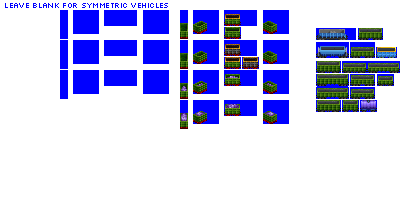
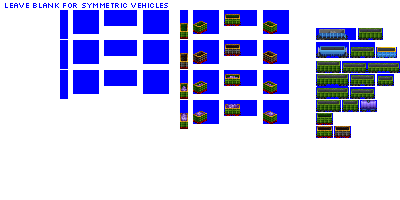
Change: updated sprites complete for gen 6 dump cars

diff --git a/src/vehicles/dump_cars.py b/src/vehicles/dump_cars.py
@@ -77,7 +77,7 @@ def main():
                              base_numeric_id=1940,
                              gen=6,
                              subtype='A',
-                             sprites_complete=False)
+                             sprites_complete=True)
 
     consist.add_unit(type=FreightCar,
                      vehicle_length=4,
@@ -87,7 +87,7 @@ def main():
                              base_numeric_id=2400,
                              gen=6,
                              subtype='B',
-                             sprites_complete=False)
+                             sprites_complete=True)
 
     consist.add_unit(type=FreightCar,
                      vehicle_length=6,
@@ -97,7 +97,7 @@ def main():
                              base_numeric_id=2390,
                              gen=6,
                              subtype='C',
-                             sprites_complete=False)
+                             sprites_complete=True)
 
     consist.add_unit(type=FreightCar,
                      vehicle_length=8,
